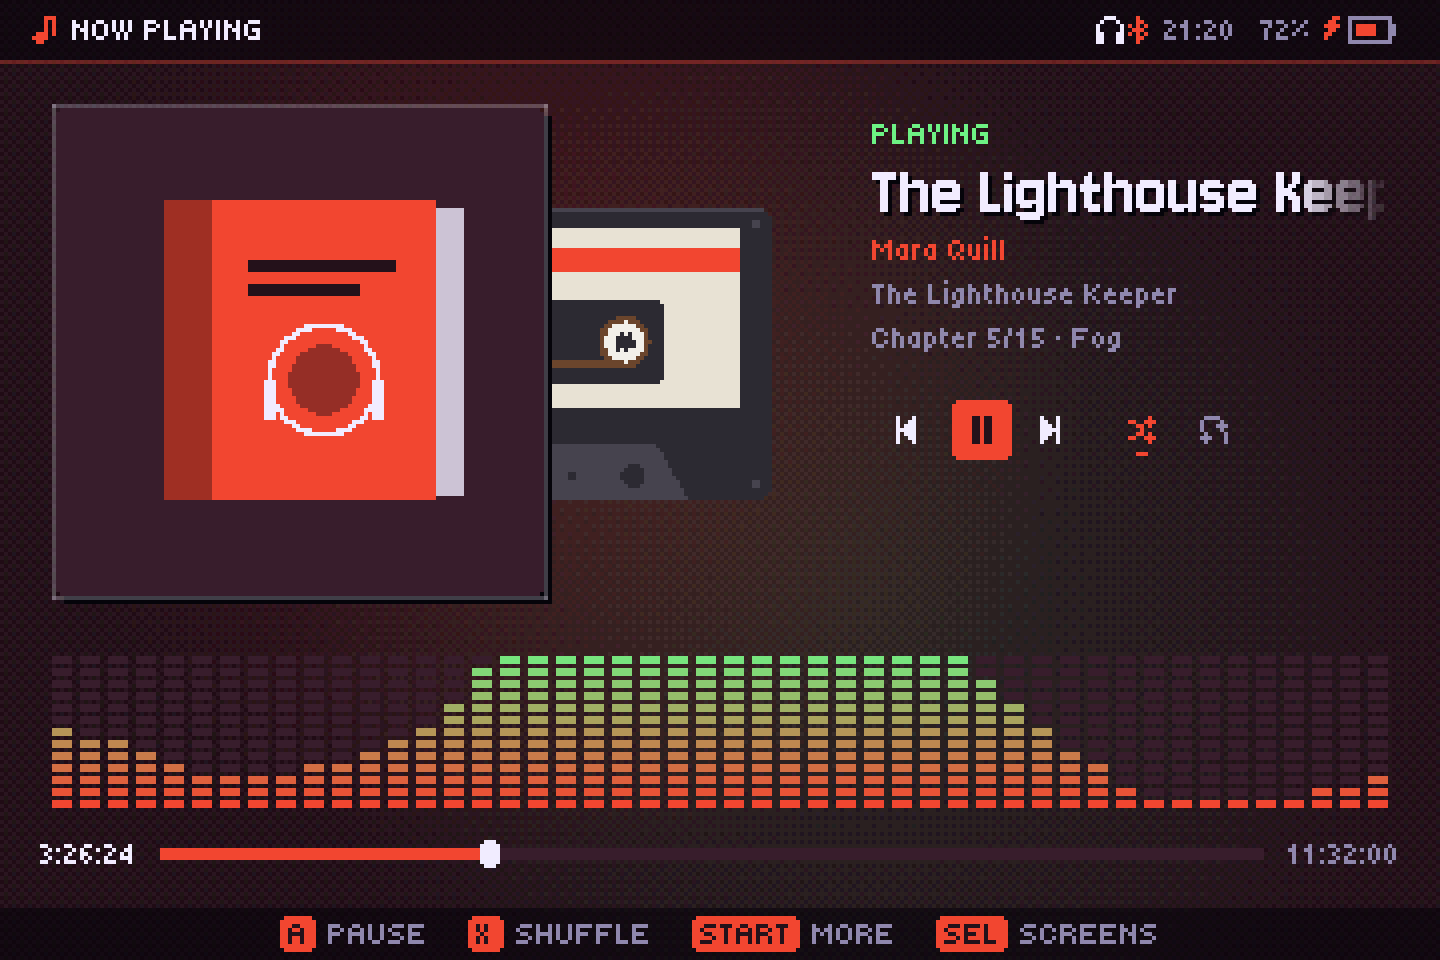
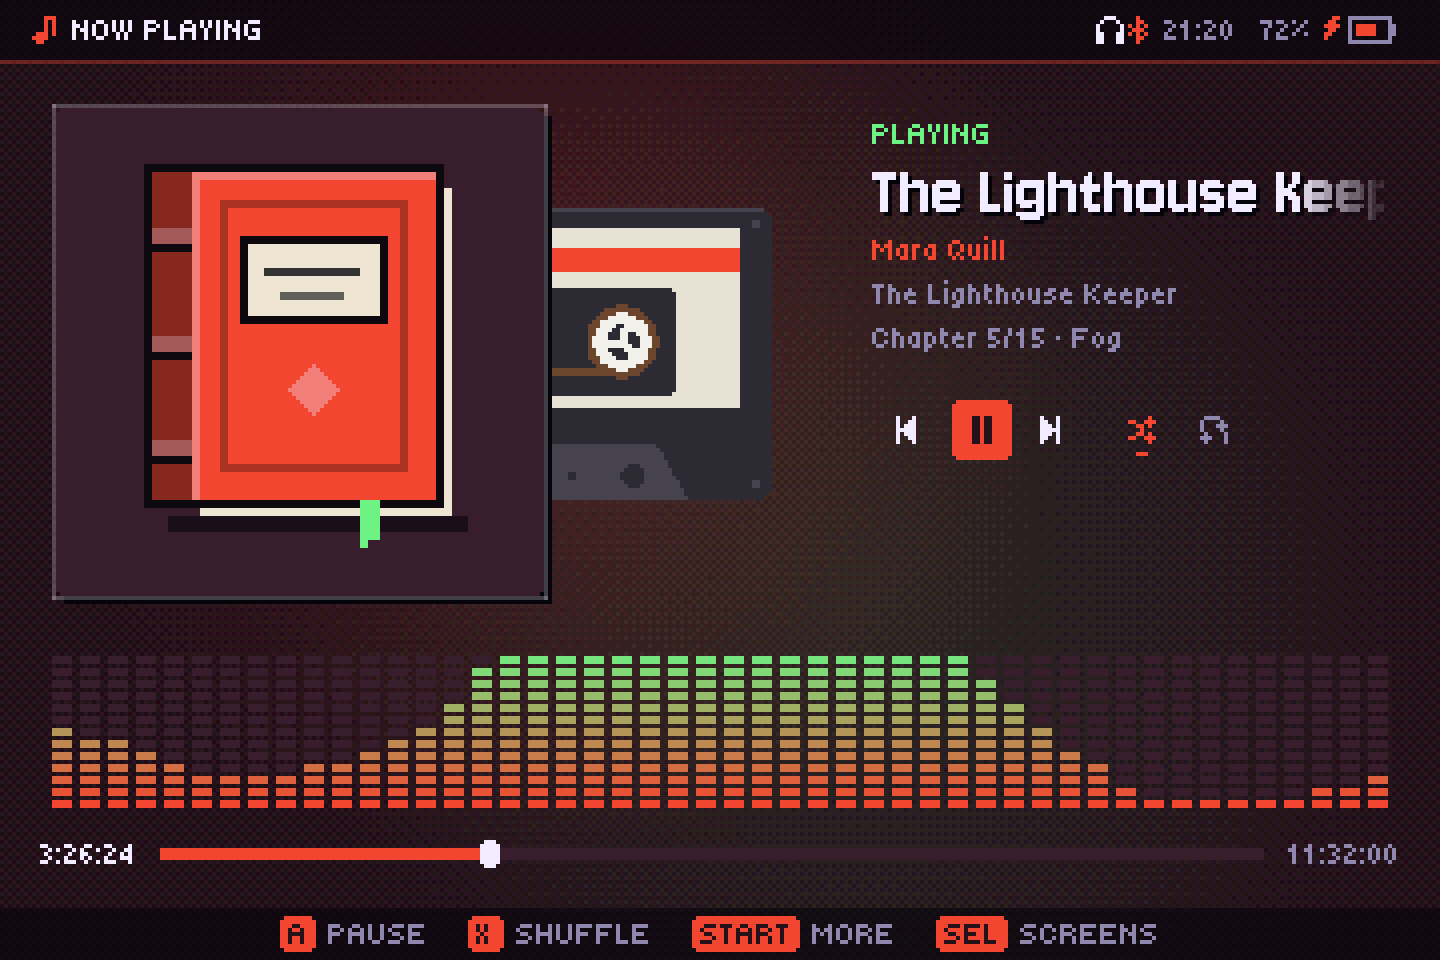
Audiobooks: a proper pixel-art hardcover (outline, banded spine, page edge, title plate, ribbon) and cassette reels that visibly turn; refreshed screenshots

Changed region(s): [[0.0938, 0.1562, 0.3438, 0.5625], [0.375, 0.2812, 0.4688, 0.4375]]

diff --git a/internal/ui/bookart.go b/internal/ui/bookart.go
@@ -13,6 +13,9 @@ import (
 // y la cinta pasando de uno a otro según lo escuchado) y, si el libro no
 // tiene portada, un librito en su lugar.
 
+// cassetteSpin es cuántas veces más rápido que el vinilo giran los carretes.
+const cassetteSpin = 4
+
 // drawCassette pinta un casete centrado en cx, cy, de ancho 2r (como el
 // vinilo de radio r), con los carretes girados angle y la cinta repartida
 // según progress (0..1). Lo que lo hace un casete (y no un disquete): los dos
@@ -34,12 +37,12 @@ func drawCassette(dst *ebiten.Image, cx, cy, r int, angle, progress float64, th 
 	rect(dst, lx, ly, lw, lh, paper)
 	rect(dst, lx, ly+lh/9, lw, max(2, lh/7), th.Accent)
 	// La ventana, ancha y oscura, en el centro de la etiqueta.
-	wx, wy, ww, wh := x+w*22/100, ly+lh*40/100, w*56/100, lh*48/100
+	wx, wy, ww, wh := x+w*20/100, ly+lh*34/100, w*60/100, lh*60/100
 	rect(dst, wx+1, wy, ww-2, wh, body)
 	rect(dst, wx, wy+1, ww, wh-2, body)
 	// Los carretes: a los lados de la ventana, grandes, con la cinta
 	// enrollada (la de la izquierda se gasta y la otra crece).
-	reel := float32(wh) * 0.42
+	reel := float32(wh) * 0.46
 	mid := float32(wy) + float32(wh)/2
 	tape := color.RGBA{0x6b, 0x45, 0x2c, 0xff}
 	hub := color.RGBA{0xf2, 0xf0, 0xea, 0xff}
@@ -54,13 +57,15 @@ func drawCassette(dst *ebiten.Image, cx, cy, r int, angle, progress float64, th 
 		}
 		vector.FillCircle(dst, c, mid, reel*float32(0.62+0.38*share), tape, false)
 		vector.FillCircle(dst, c, mid, reel*0.58, hub, false)
-		vector.FillCircle(dst, c, mid, reel*0.32, body, false)
-		// Los dientes del carrete, girando.
-		for k := 0; k < 6; k++ {
-			a := angle + float64(k)*math.Pi/3
-			sx := c + float32(math.Cos(a))*reel*0.3
-			sy := mid + float32(math.Sin(a))*reel*0.3
-			vector.FillRect(dst, sx-0.75, sy-0.75, 1.5, 1.5, hub, false)
+		vector.FillCircle(dst, c, mid, reel*0.34, body, false)
+		// Los tres dientes del carrete, grandes para que se vea girar. Los
+		// carretes de un casete van más rápido que un vinilo.
+		for k := 0; k < 3; k++ {
+			a := cassetteSpin*angle + float64(k)*2*math.Pi/3
+			cs, sn := float32(math.Cos(a)), float32(math.Sin(a))
+			for d := float32(0.08); d <= 0.34; d += 0.06 {
+				vector.FillRect(dst, c+cs*reel*d-1, mid+sn*reel*d-1, 2, 2, hub, false)
+			}
 		}
 	}
 	// Abajo, el trapecio con sus dos agujeros grandes y dos chicos.
@@ -82,26 +87,68 @@ func drawCassette(dst *ebiten.Image, cx, cy, r int, angle, progress float64, th 
 	}
 }
 
-// drawBookArt pinta un librito en el cuadro de la portada (size×size): para
-// los audiolibros sin portada.
+// drawBookArt pinta un libro de tapa dura en el cuadro de la portada
+// (size×size), para los audiolibros sin portada: la tapa del color del disco
+// con su marco y la placa del título, el lomo con sus nervios, el canto de
+// las hojas, la cinta de marcapáginas y su sombra; todo con contorno, como
+// pixel art.
 func drawBookArt(dst *ebiten.Image, x, y, size int, th Theme) {
 	panel(dst, x, y, size, size, th.Bg2)
-	// El libro, de pie y un poco de lado: la tapa, el lomo y las hojas.
-	bw, bh := size*46/100, size*62/100
-	bx, by := x+(size-bw)/2+size/20, y+(size-bh)/2
-	spine := size / 10
-	rect(dst, bx+bw-1, by+2, size/14, bh-3, mix(th.Text, th.Bg2, 0.2))  // las hojas
-	rect(dst, bx, by, bw, bh, th.Accent)                                // la tapa
-	rect(dst, bx-spine, by, spine, bh, mix(th.Accent, th.Shadow, 0.35)) // el lomo
-	// El título en la tapa (dos rayas) y un adorno.
-	rect(dst, bx+bw/6, by+bh/5, bw*2/3, max(1, size/40), th.Bg)
-	rect(dst, bx+bw/6, by+bh/5+size/20, bw/2, max(1, size/40), th.Bg)
-	c := float32(bx + bw/2)
-	vector.FillCircle(dst, c, float32(by+bh*3/5), float32(size)/14, mix(th.Accent, th.Bg, 0.45), false)
-	// Los auriculares encima: es para escucharlo.
-	hr := float32(size) / 9
-	hy := float32(by + bh*3/5)
-	vector.StrokeCircle(dst, c, hy, hr, 1.5, th.Text, false)
-	rect(dst, int(c-hr)-1, int(hy), 3, size/12, th.Text)
-	rect(dst, int(c+hr)-1, int(hy), 3, size/12, th.Text)
+	u := max(1, size/48) // un "pixel" del dibujo
+	bw, bh := size*50/100, size*68/100
+	bx, by := x+(size-bw)/2+u*2, y+(size-bh)/2-u*2
+	spine, pages := size*9/100, max(2, size*4/100)
+	outline := mix(th.Shadow, th.Bg, 0.3)
+	cover := th.Accent
+	dark := mix(th.Accent, th.Shadow, 0.45)
+	light := mix(th.Accent, th.Text, 0.35)
+	paper := color.RGBA{0xee, 0xe6, 0xd2, 0xff}
+	paperLine := mix(paper, th.Shadow, 0.25)
+
+	// La sombra, abajo a la derecha.
+	rect(dst, bx-spine+u*2, by+bh+pages, bw+spine+pages, u*2, withAlpha(th.Shadow, 0x90))
+	// El canto de las hojas: a la derecha y abajo, con rayas.
+	rect(dst, bx+u, by+pages, bw+pages-u, bh, paper)
+	for k := by + pages + u*2; k < by+bh+pages-u; k += u * 2 {
+		rect(dst, bx+bw, k, pages-u, max(1, u/2), paperLine)
+	}
+	for k := bx + u*2; k < bx+bw; k += u * 3 {
+		rect(dst, k, by+bh, max(1, u/2), pages-u, paperLine)
+	}
+	// La tapa, con su contorno, el brillo arriba y a la izquierda.
+	rect(dst, bx-u, by-u, bw+u*2, bh+u*2, outline)
+	rect(dst, bx, by, bw, bh, cover)
+	rect(dst, bx, by, bw, u, light)
+	rect(dst, bx, by, u, bh, light)
+	// El marco grabado y la placa clara del título, con dos líneas.
+	fm := size * 6 / 100
+	frame := mix(cover, th.Shadow, 0.3)
+	rect(dst, bx+fm, by+fm, bw-2*fm, u, frame)
+	rect(dst, bx+fm, by+bh-fm-u, bw-2*fm, u, frame)
+	rect(dst, bx+fm, by+fm, u, bh-2*fm, frame)
+	rect(dst, bx+bw-fm-u, by+fm, u, bh-2*fm, frame)
+	px, py, pw, ph := bx+fm*2, by+bh*22/100, bw-fm*4, bh*22/100
+	rect(dst, px-u, py-u, pw+u*2, ph+u*2, outline)
+	rect(dst, px, py, pw, ph, paper)
+	rect(dst, px+pw/8, py+ph/3, pw*3/4, max(1, u), mix(th.Shadow, paper, 0.2))
+	rect(dst, px+pw/4, py+ph*2/3, pw/2, max(1, u), mix(th.Shadow, paper, 0.4))
+	// Un adorno debajo: un rombo.
+	cx, cy, d := bx+bw/2, by+bh*66/100, max(2, size/18)
+	for k := 0; k <= d; k++ {
+		rect(dst, cx-k, cy-d+k, 2*k+1, 1, light)
+		rect(dst, cx-k, cy+d-k, 2*k+1, 1, light)
+	}
+	// El lomo, más oscuro, con tres nervios.
+	rect(dst, bx-spine-u, by-u, spine+u, bh+u*2, outline)
+	rect(dst, bx-spine, by, spine, bh, dark)
+	for _, f := range []int{18, 50, 82} {
+		ry := by + bh*f/100
+		rect(dst, bx-spine, ry, spine, u*2, mix(dark, th.Text, 0.25))
+		rect(dst, bx-spine, ry+u*2, spine, u, outline)
+	}
+	// La cinta de marcapáginas, colgando por abajo.
+	rw := max(2, size/22)
+	rx := bx + bw*70/100
+	rect(dst, rx, by+bh, rw, size*9/100, th.Accent2)
+	rect(dst, rx, by+bh+size*9/100, rw/2, u, th.Accent2) // la punta en V
 }

diff --git a/internal/ui/app.go b/internal/ui/app.go
@@ -2405,6 +2405,7 @@ func (a *App) writeFrames() error {
 		a.t = base + float64(i)/20
 		a.position = start + float64(i)/20*1.25
 		a.shownPos = a.position
+		a.spin += 2 * a.spinSpeed() // a 20 fps, lo que giraría en tres fotogramas de 60 (el tercero, al dibujar)
 		for k := 0; k < 3; k++ {
 			a.beatHit = a.updateBeat()
 			a.updatePump()
